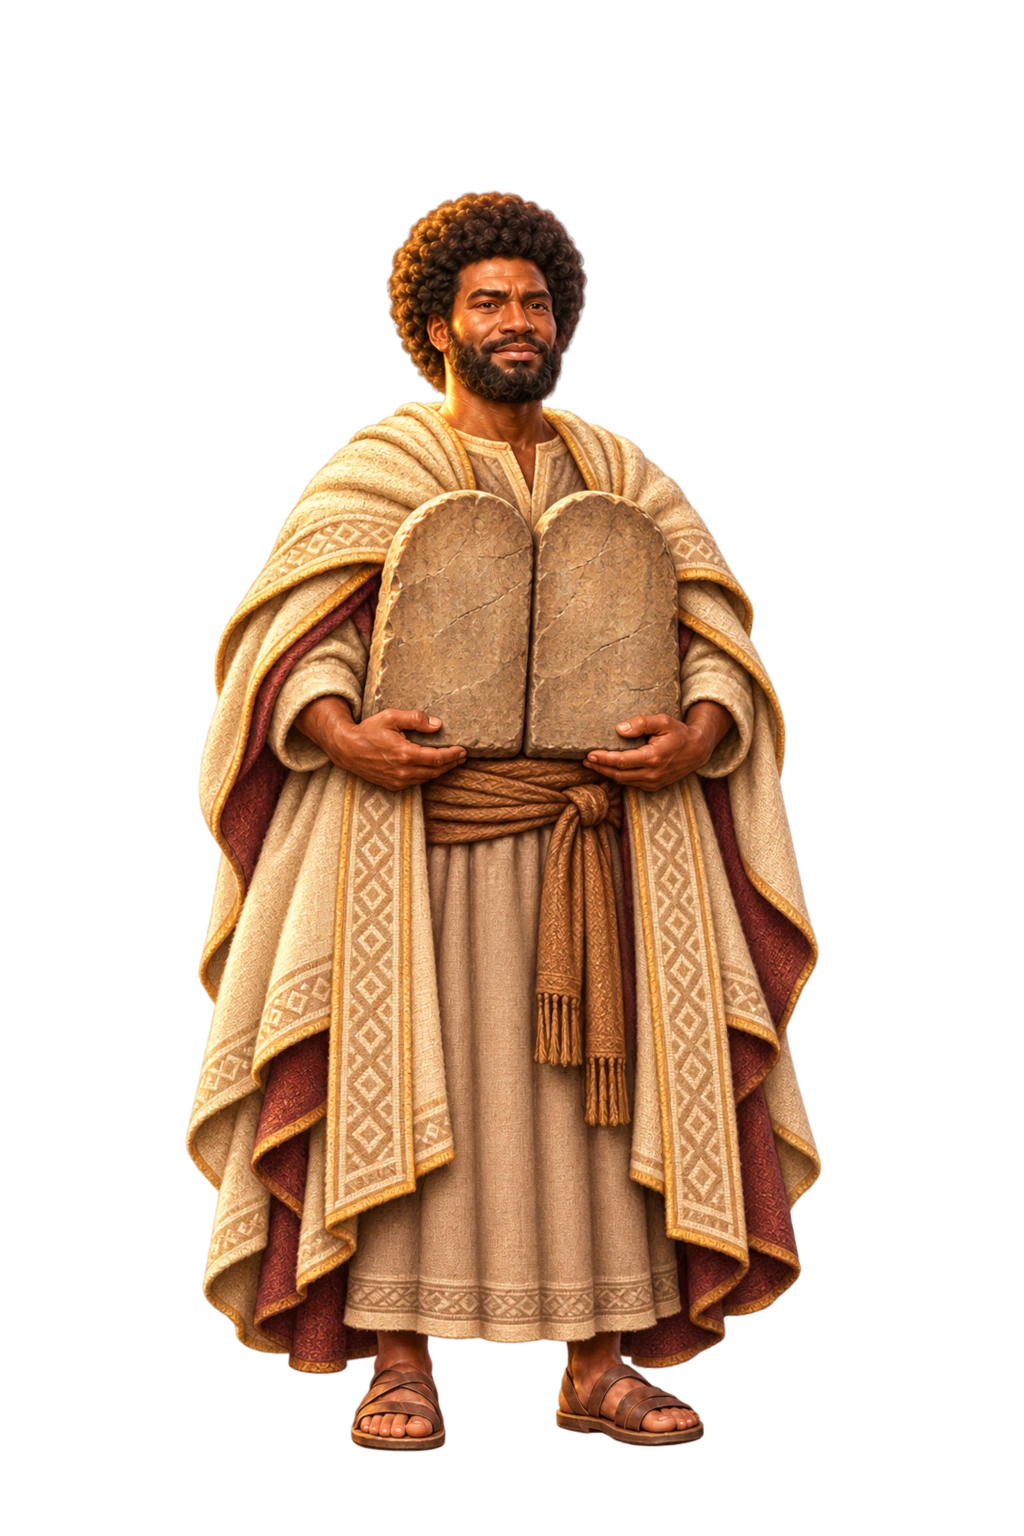
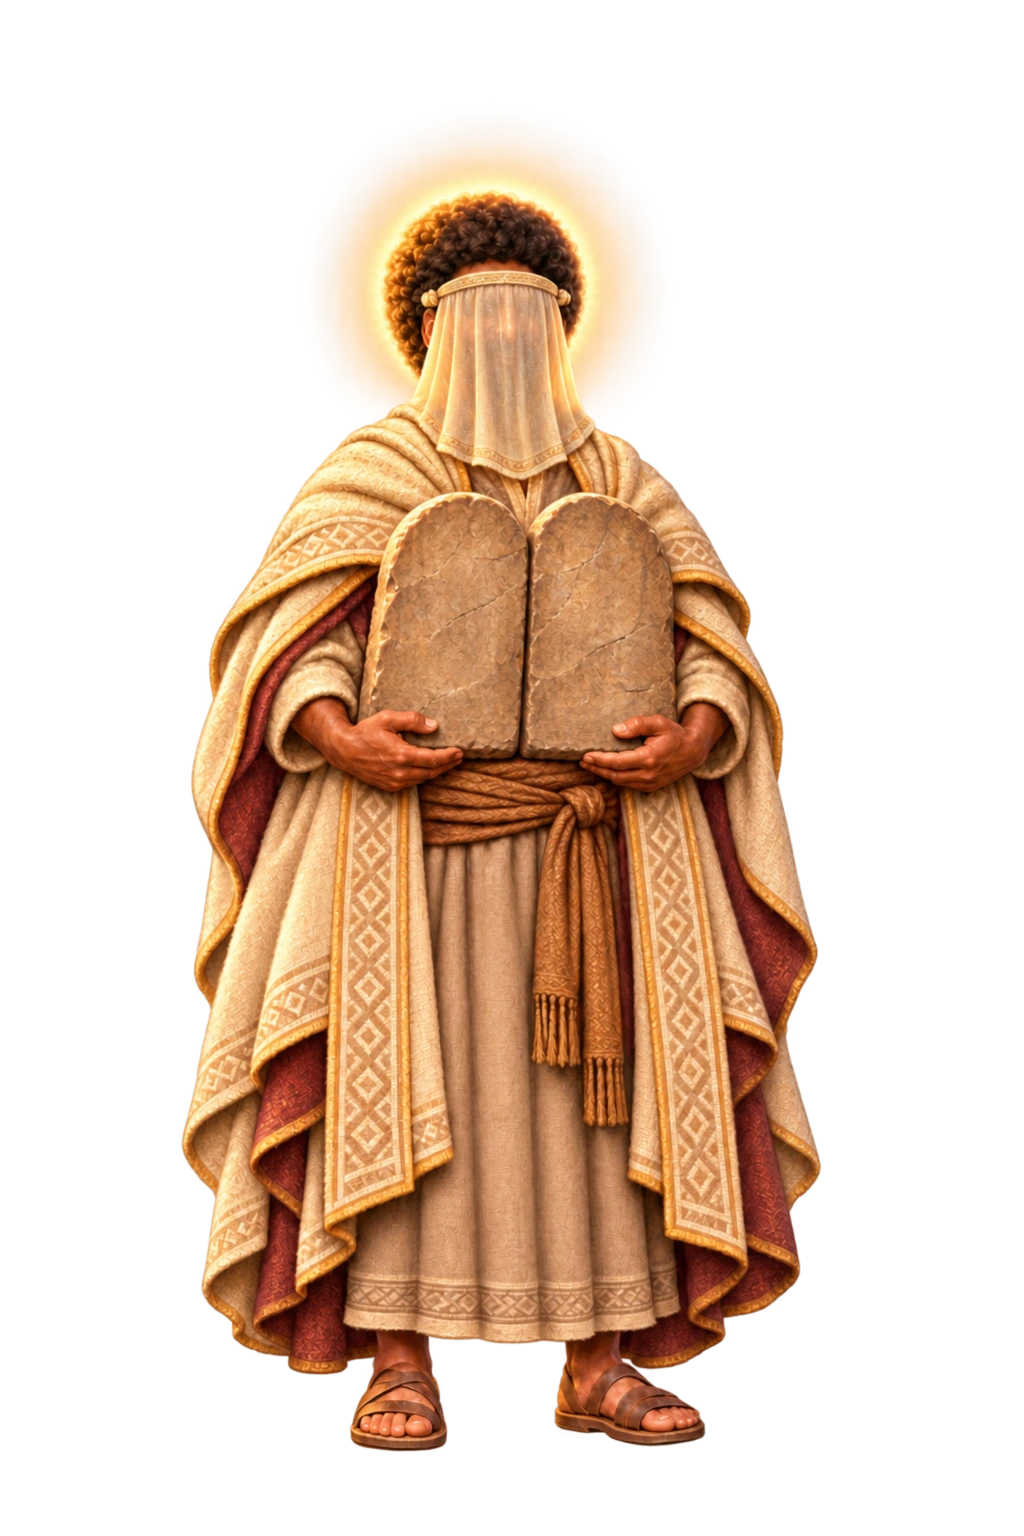
Aplica a revisão de Moisés com o rosto resplandecente (véu e aura) e enquadra skins pintadas no acampamento
- Pacote conferido (SHA-256 do ZIP, 23 somas, fichas iguais); 6 pinturas
  substituídas; a transparência fraca fica só na aura ao redor da cabeça.
- Acampamento: enquadramento campPainted para skins pintadas (mesma
  proporção, mais alto e largo), para a aura não aparecer cortada.

Claude-Session: https://claude.ai/code/session_01ShwRuBXYkz4meuq65H5Vn5

Changed region(s): [[0.1562, 0.0938, 0.8125, 0.9375]]

diff --git a/src/features/journey/components/CampHero.tsx b/src/features/journey/components/CampHero.tsx
@@ -39,7 +39,7 @@ export function CampHero({ look, height, top, bottom, side }: { look: AvatarLook
                 equippedItems={look.equipment}
                 painted={look.painted}
                 size={avatarH}
-                crop="camp"
+                crop={look.painted ? 'campPainted' : 'camp'}
                 lighting="camp"
                 showBackground={false}
                 accessibilityLabel={fmt(strings.journey.campAvatarLabel, { summary: describeLook(look) })}

diff --git a/src/features/avatar/art/geometry.ts b/src/features/avatar/art/geometry.ts
@@ -170,5 +170,7 @@ export const CROPS = {
   head: '382 150 260 260',
   /** acampamento: enquadramento mais próximo (cabeça até a canela), com espaço para o cajado */
   camp: '262 176 580 980',
+  /** acampamento com skin pintada: mais alto e largo, para caber o que a pintura tem acima da cabeça (aura, coroa) */
+  campPainted: '202 56 670 1132',
 } as const;
 export type AvatarCrop = keyof typeof CROPS;

diff --git a/docs/skins/entregas/moises-veu-aura/PROMPTS.md b/docs/skins/entregas/moises-veu-aura/PROMPTS.md
@@ -1,0 +1,61 @@
+# Prompts de revisão · Moisés resplandecente
+
+As seis imagens de referência são as pinturas do commit 3e5c300. A revisão acrescenta um véu diante do rosto e uma aura luminosa ao redor da cabeça.
+
+## Moisés com o rosto resplandecente
+
+### Estilo 1
+
+Edit the approved full-body Jornada Bíblica RPG sprite of the outfit inspired by Moses in Exodus 34:29–35. This is a narrowly scoped character-art edit. Preserve the approved semirealistic painterly 2.5D texture, identity, complexion, hairstyle, broad mantle, exact panel colors and embroidery, waist sash, two stone tablets, grip of both hands, stance, visibility of both sandals and all full-body proportions. Head and feet stay in their original positions on the 1024 × 1536 transparent portrait. The original reference is the edit target.
+
+Add one visible, modest face veil of ancient fine warm ivory flax. The veil fastens at the brow and near both temples in the existing hair or wrap and hangs in front of the entire face from above the eyes past the chin. Cover the eyes, nose, mouth and chin with a continuous curtain of naturally draped linen, with credible narrow vertical folds and a subtly woven hem. Facial shape is only suggested through the fabric and diffused light. Read as a cloth suspended in front of the face, with no eye holes, mask edge, opening or bare strip of face. Keep the existing hair above the brow and at the sides readable. Keep existing mantle closure and overall body silhouette at this game scale.
+
+Give the head a clearly visible soft warm-white and pale golden AURA. A compact diffused painted light bloom follows immediately behind the hair crown and at both sides of the head, extends slightly outside its silhouette and falls back to complete transparency just outside that area. It visibly shines through the fine veil into the weave and lights the near edges of the cloth. Make it bright enough to read in a small game portrait. Soft oval feathered light, seamless transparent edges, no hard ring, drawn disk, iconography, particles, flames, rays, cast floor light or separate objects. Keep the aura near the head and stay within the same 1024 × 1536 canvas. Genuine RGBA with empty transparency elsewhere. Preserve the two hands, stone tablets, tunic and all pixels of the costume below the shoulder as closely as possible.
+Keep the short chestnut-brown hair of this standard presentation.
+
+### Estilo 2
+
+Edit the approved full-body Jornada Bíblica RPG sprite of the outfit inspired by Moses in Exodus 34:29–35. This is a narrowly scoped character-art edit. Preserve the approved semirealistic painterly 2.5D texture, identity, complexion, hairstyle, broad mantle, exact panel colors and embroidery, waist sash, two stone tablets, grip of both hands, stance, visibility of both sandals and all full-body proportions. Head and feet stay in their original positions on the 1024 × 1536 transparent portrait. The original reference is the edit target.
+
+Add one visible, modest face veil of ancient fine warm ivory flax. The veil fastens at the brow and near both temples in the existing hair or wrap and hangs in front of the entire face from above the eyes past the chin. Cover the eyes, nose, mouth and chin with a continuous curtain of naturally draped linen, with credible narrow vertical folds and a subtly woven hem. Facial shape is only suggested through the fabric and diffused light. Read as a cloth suspended in front of the face, with no eye holes, mask edge, opening or bare strip of face. Keep the existing hair above the brow and at the sides readable. Keep existing mantle closure and overall body silhouette at this game scale.
+
+Give the head a clearly visible soft warm-white and pale golden AURA. A compact diffused painted light bloom follows immediately behind the hair crown and at both sides of the head, extends slightly outside its silhouette and falls back to complete transparency just outside that area. It visibly shines through the fine veil into the weave and lights the near edges of the cloth. Make it bright enough to read in a small game portrait. Soft oval feathered light, seamless transparent edges, no hard ring, drawn disk, iconography, particles, flames, rays, cast floor light or separate objects. Keep the aura near the head and stay within the same 1024 × 1536 canvas. Genuine RGBA with empty transparency elsewhere. Preserve the two hands, stone tablets, tunic and all pixels of the costume below the shoulder as closely as possible.
+Input 1 is the edit target for this specific approved style and its exact costume and figure. Input 2 supplies ONLY the design of the veil and the soft diffuse luminous head aura. Match the same veil material, distinctive bright white-gold halo strength and soft taper from the reference example, scaling it to this character's own skull. Keep the original body's colors, head position, stance, hands, clothing folds, belt and tablets of input 1. Preserve the medium warm complexion of the hands, black curls, and the muted teal details of the original mantle. The original is the approved standard masculine presentation.
+
+### Estilo 3
+
+Edit the approved full-body Jornada Bíblica RPG sprite of the outfit inspired by Moses in Exodus 34:29–35. This is a narrowly scoped character-art edit. Preserve the approved semirealistic painterly 2.5D texture, identity, complexion, hairstyle, broad mantle, exact panel colors and embroidery, waist sash, two stone tablets, grip of both hands, stance, visibility of both sandals and all full-body proportions. Head and feet stay in their original positions on the 1024 × 1536 transparent portrait. The original reference is the edit target.
+
+Add one visible, modest face veil of ancient fine warm ivory flax. The veil fastens at the brow and near both temples in the existing hair or wrap and hangs in front of the entire face from above the eyes past the chin. Cover the eyes, nose, mouth and chin with a continuous curtain of naturally draped linen, with credible narrow vertical folds and a subtly woven hem. Facial shape is only suggested through the fabric and diffused light. Read as a cloth suspended in front of the face, with no eye holes, mask edge, opening or bare strip of face. Keep the existing hair above the brow and at the sides readable. Keep existing mantle closure and overall body silhouette at this game scale.
+
+Give the head a clearly visible soft warm-white and pale golden AURA. A compact diffused painted light bloom follows immediately behind the hair crown and at both sides of the head, extends slightly outside its silhouette and falls back to complete transparency just outside that area. It visibly shines through the fine veil into the weave and lights the near edges of the cloth. Make it bright enough to read in a small game portrait. Soft oval feathered light, seamless transparent edges, no hard ring, drawn disk, iconography, particles, flames, rays, cast floor light or separate objects. Keep the aura near the head and stay within the same 1024 × 1536 canvas. Genuine RGBA with empty transparency elsewhere. Preserve the two hands, stone tablets, tunic and all pixels of the costume below the shoulder as closely as possible.
+Input 1 is the edit target for this specific approved style and its exact costume and figure. Input 2 supplies ONLY the design of the veil and the soft diffuse luminous head aura. Match the same veil material, distinctive bright white-gold halo strength and soft taper from the reference example, scaling it to this character's own skull. Keep the original body's colors, head position, stance, hands, clothing folds, belt and tablets of input 1. Preserve the deep brown complexion in the hands, densely coiled black Afro visibly framing the cloth, and the warm burgundy linings of the existing mantle. The original is the approved standard masculine presentation.
+
+## Moisés com o rosto resplandecente · apresentação feminina
+
+### Estilo 1
+
+Edit the approved full-body Jornada Bíblica RPG sprite of the outfit inspired by Moses in Exodus 34:29–35. This is a narrowly scoped character-art edit. Preserve the approved semirealistic painterly 2.5D texture, identity, complexion, hairstyle, broad mantle, exact panel colors and embroidery, waist sash, two stone tablets, grip of both hands, stance, visibility of both sandals and all full-body proportions. Head and feet stay in their original positions on the 1024 × 1536 transparent portrait. The original reference is the edit target.
+
+Add one visible, modest face veil of ancient fine warm ivory flax. The veil fastens at the brow and near both temples in the existing hair or wrap and hangs in front of the entire face from above the eyes past the chin. Cover the eyes, nose, mouth and chin with a continuous curtain of naturally draped linen, with credible narrow vertical folds and a subtly woven hem. Facial shape is only suggested through the fabric and diffused light. Read as a cloth suspended in front of the face, with no eye holes, mask edge, opening or bare strip of face. Keep the existing hair above the brow and at the sides readable. Keep existing mantle closure and overall body silhouette at this game scale.
+
+Give the head a clearly visible soft warm-white and pale golden AURA. A compact diffused painted light bloom follows immediately behind the hair crown and at both sides of the head, extends slightly outside its silhouette and falls back to complete transparency just outside that area. It visibly shines through the fine veil into the weave and lights the near edges of the cloth. Make it bright enough to read in a small game portrait. Soft oval feathered light, seamless transparent edges, no hard ring, drawn disk, iconography, particles, flames, rays, cast floor light or separate objects. Keep the aura near the head and stay within the same 1024 × 1536 canvas. Genuine RGBA with empty transparency elsewhere. Preserve the two hands, stone tablets, tunic and all pixels of the costume below the shoulder as closely as possible.
+This is the approved female presentation of the same inspired costume. Maintain her face and short auburn-brown hairstyle beneath the new veil.
+
+### Estilo 2
+
+Edit the approved full-body Jornada Bíblica RPG sprite of the outfit inspired by Moses in Exodus 34:29–35. This is a narrowly scoped character-art edit. Preserve the approved semirealistic painterly 2.5D texture, identity, complexion, hairstyle, broad mantle, exact panel colors and embroidery, waist sash, two stone tablets, grip of both hands, stance, visibility of both sandals and all full-body proportions. Head and feet stay in their original positions on the 1024 × 1536 transparent portrait. The original reference is the edit target.
+
+Add one visible, modest face veil of ancient fine warm ivory flax. The veil fastens at the brow and near both temples in the existing hair or wrap and hangs in front of the entire face from above the eyes past the chin. Cover the eyes, nose, mouth and chin with a continuous curtain of naturally draped linen, with credible narrow vertical folds and a subtly woven hem. Facial shape is only suggested through the fabric and diffused light. Read as a cloth suspended in front of the face, with no eye holes, mask edge, opening or bare strip of face. Keep the existing hair above the brow and at the sides readable. Keep existing mantle closure and overall body silhouette at this game scale.
+
+Give the head a clearly visible soft warm-white and pale golden AURA. A compact diffused painted light bloom follows immediately behind the hair crown and at both sides of the head, extends slightly outside its silhouette and falls back to complete transparency just outside that area. It visibly shines through the fine veil into the weave and lights the near edges of the cloth. Make it bright enough to read in a small game portrait. Soft oval feathered light, seamless transparent edges, no hard ring, drawn disk, iconography, particles, flames, rays, cast floor light or separate objects. Keep the aura near the head and stay within the same 1024 × 1536 canvas. Genuine RGBA with empty transparency elsewhere. Preserve the two hands, stone tablets, tunic and all pixels of the costume below the shoulder as closely as possible.
+Input 1 is the edit target for this specific approved style and its exact costume and figure. Input 2 supplies ONLY the design of the veil and the soft diffuse luminous head aura. Match the same veil material, distinctive bright white-gold halo strength and soft taper from the reference example, scaling it to this character's own skull. Keep the original body's colors, head position, stance, hands, clothing folds, belt and tablets of input 1. Preserve the medium warm complexion of the hands, black curls, and the muted teal details of the original mantle. The original is the approved female presentation. Preserve her proportions and her original fabric hair wrap.
+
+### Estilo 3
+
+Edit the approved full-body Jornada Bíblica RPG sprite of the outfit inspired by Moses in Exodus 34:29–35. This is a narrowly scoped character-art edit. Preserve the approved semirealistic painterly 2.5D texture, identity, complexion, hairstyle, broad mantle, exact panel colors and embroidery, waist sash, two stone tablets, grip of both hands, stance, visibility of both sandals and all full-body proportions. Head and feet stay in their original positions on the 1024 × 1536 transparent portrait. The original reference is the edit target.
+
+Add one visible, modest face veil of ancient fine warm ivory flax. The veil fastens at the brow and near both temples in the existing hair or wrap and hangs in front of the entire face from above the eyes past the chin. Cover the eyes, nose, mouth and chin with a continuous curtain of naturally draped linen, with credible narrow vertical folds and a subtly woven hem. Facial shape is only suggested through the fabric and diffused light. Read as a cloth suspended in front of the face, with no eye holes, mask edge, opening or bare strip of face. Keep the existing hair above the brow and at the sides readable. Keep existing mantle closure and overall body silhouette at this game scale.
+
+Give the head a clearly visible soft warm-white and pale golden AURA. A compact diffused painted light bloom follows immediately behind the hair crown and at both sides of the head, extends slightly outside its silhouette and falls back to complete transparency just outside that area. It visibly shines through the fine veil into the weave and lights the near edges of the cloth. Make it bright enough to read in a small game portrait. Soft oval feathered light, seamless transparent edges, no hard ring, drawn disk, iconography, particles, flames, rays, cast floor light or separate objects. Keep the aura near the head and stay within the same 1024 × 1536 canvas. Genuine RGBA with empty transparency elsewhere. Preserve the two hands, stone tablets, tunic and all pixels of the costume below the shoulder as closely as possible.
+Input 1 is the edit target for this specific approved style and its exact costume and figure. Input 2 supplies ONLY the design of the veil and the soft diffuse luminous head aura. Match the same veil material, distinctive bright white-gold halo strength and soft taper from the reference example, scaling it to this character's own skull. Keep the original body's colors, head position, stance, hands, clothing folds, belt and tablets of input 1. Preserve the deep brown complexion in the hands, densely coiled black Afro visibly framing the cloth, and the warm burgundy linings of the existing mantle. The original is the approved female presentation. Preserve her proportions and her original fabric hair wrap.

diff --git a/docs/skins/PARA-O-CODEX.md b/docs/skins/PARA-O-CODEX.md
@@ -245,3 +245,13 @@ Prioridade sugerida: Pastor (é inicial), depois as Lendárias e Gloriosas de le
 - **Nomes femininos:** quando o nome é o mesmo nas duas versões, o Vestiário mostra "Padrão" e "Feminina". Use um `nomeExibicao` próprio sempre que fizer sentido (Pastora, Tocadora, Bordadora).
 
 **Próximo lote: P01**, as principais das Origens. O briefing está em `LOTES.md`.
+
+## 14. Moisés com o rosto resplandecente, véu e aura: aplicado (18/11/2026)
+
+O ZIP confere com o `.zip.sha256` (`5b32cd9b…`), as 23 somas conferem e as fichas são idênticas às de `3e5c300`. As 6 pinturas entraram no lugar das anteriores, com os mesmos caminhos.
+- O véu de linho segue Êx 34:33–35.
+- A transparência fraca fora da figura fica toda no quadro da cabeça (y entre 66 e 455), ou seja, é a aura pedida e não névoa.
+
+**Ajuste no app:** a aura passava do limite superior do recorte do acampamento (y = 176) e aparecia cortada por uma borda reta. As skins pintadas agora usam no acampamento o enquadramento `campPainted` (`202 56 670 1132`, mesma proporção), e a aura se desfaz sem corte.
+
+**Para pinturas futuras:** o que estiver acima da cabeça (aura, coroa, chama) deve ficar em y ≥ 56 e x entre 202 e 872, para caber no acampamento. No retrato redondo do topo, o recorte de cabeça (`382 150 260 260`) corta naturalmente o que passar disso.

diff --git a/docs/skins/entregas/moises-veu-aura/LEIA-ME.md b/docs/skins/entregas/moises-veu-aura/LEIA-ME.md
@@ -1,0 +1,11 @@
+# Moisés com o rosto resplandecente · Véu e aura
+
+Seis pinturas 2.5D para `glorioso_moises_rosto_resplandecente`, nos três estilos padrão e nos três femininos. O véu claro cobre o rosto até abaixo do queixo, com luz difusa na trama e ao redor da cabeça. [Êxodo 34:29–35](https://www.bible.com/pt/bible/129/EXO.34.29-35.NVI)
+
+O pacote usa as duas fichas de `3e5c300` e os caminhos do traje já aplicado. Cada apresentação inclui os corpos WebP de 1024 × 1536, ampliações `@2x`, ícone e capturas de corpo inteiro, retrato e rosto em 320 e 412 px.
+
+## Aplicação
+
+1. Confirme o arquivo `.zip.sha256` e valide `SHA256SUMS.txt` após extrair o ZIP.
+2. Atualize a pasta `assets/skins/glorioso_moises_rosto_resplandecente/`, incluindo o diretório `feminino/`, no branch `claude/kind-bell-fuk4e4`.
+3. Confira a aura contra o fundo do acampamento. O efeito translúcido pertence à área ao redor da cabeça.
